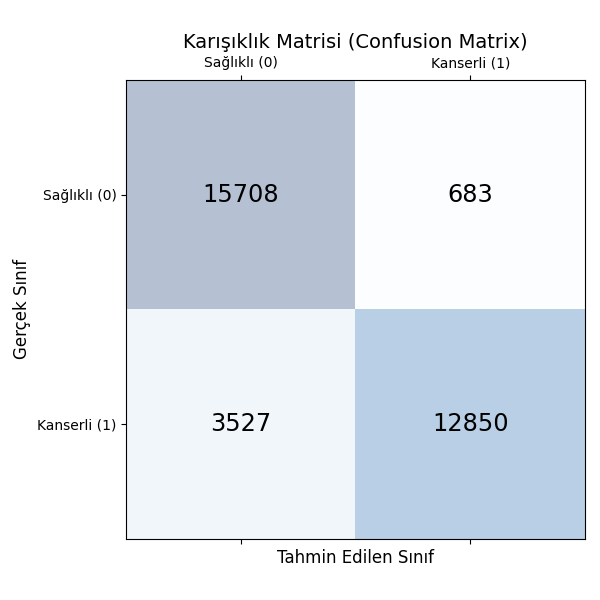
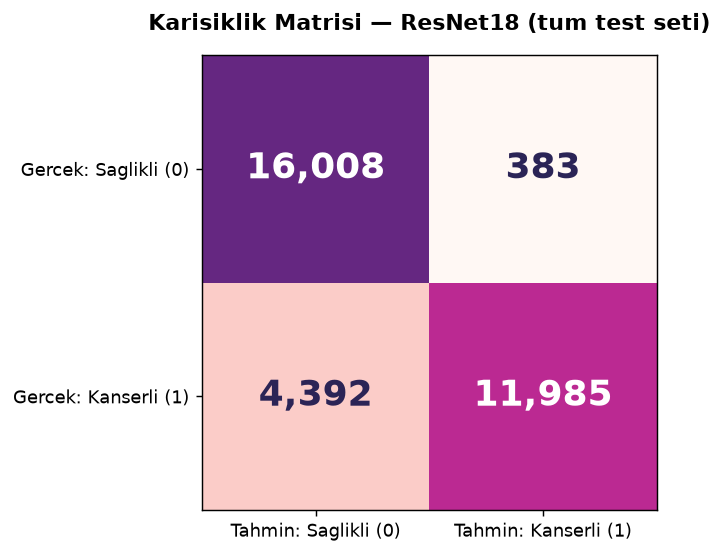
Metrikleri servis edilen modelin gercek degerleriyle guncelle (Acc 85.43, R 0.73); confusion gorseli yenilendi; kurdele-DNA caprazlanmasi + hero yukari

diff --git a/frontend/src/i18n.jsx b/frontend/src/i18n.jsx
@@ -73,7 +73,7 @@ const DICT = {
       pCalib:
         "Nöral ağların ham softmax çıktısı genelde aşırı özgüvenlidir; model yanılırken bile %99 diyebilir. Bunu düzeltmek için temperature scaling (Guo et al., 2017) uyguladık: validation setinde en iyi sıcaklık T = 1.43 bulundu ve logit'ler bu değere bölünerek güven yüzdesi gerçekçi hale getirildi. Kalibrasyon hatası (ECE) 0.0445 → 0.0138'e düştü. Bu işlem tahminleri ve doğruluğu değiştirmez; yalnızca gösterilen yüzdeyi güvenilir kılar.",
       warn:
-        "⚠ Kısıt: Recall ~0.78 olduğundan model, gerçek kanserli vakaların yaklaşık %22'sini kaçırabilir. Bu nedenle araç klinik tanı için uygun değildir ve yalnızca araştırma / eğitim amaçlıdır.",
+        "⚠ Kısıt: Recall ~0.73 olduğundan model, gerçek kanserli vakaların yaklaşık %27'sini kaçırabilir. Bu nedenle araç klinik tanı için uygun değildir ve yalnızca araştırma / eğitim amaçlıdır.",
       credit: "Geliştiren",
     },
     landing: {
@@ -179,7 +179,7 @@ const DICT = {
       pCalib:
         "Raw softmax outputs of neural nets are usually overconfident; the model can say 99% even when wrong. To fix this we applied temperature scaling (Guo et al., 2017): the best temperature T = 1.43 was found on the validation set and logits are divided by it to make the confidence realistic. Calibration error (ECE) dropped 0.0445 → 0.0138. This does not change predictions or accuracy; it only makes the displayed percentage trustworthy.",
       warn:
-        "⚠ Limitation: With recall ~0.78, the model may miss about 22% of true cancer cases. Therefore the tool is not suitable for clinical diagnosis and is for research / education only.",
+        "⚠ Limitation: With recall ~0.73, the model may miss about 27% of true cancer cases. Therefore the tool is not suitable for clinical diagnosis and is for research / education only.",
       credit: "Created by",
     },
     landing: {

diff --git a/frontend/src/styles.css b/frontend/src/styles.css
@@ -129,7 +129,7 @@ body {
   grid-template-columns: 1.45fr 0.55fr;
   align-items: center;
   gap: 32px;
-  padding: 20px 0 32px;
+  padding: 6px 0 24px;
 }
 .hero-text { display: flex; flex-direction: column; gap: 18px; }
 .hero-badge {
@@ -596,7 +596,7 @@ body {
 
 /* ---------- Kurdele şeklinde DNA (Analiz hero) ---------- */
 .rdna {
-  position: relative; width: 100%; max-width: 400px; aspect-ratio: 260 / 300; margin: 0 auto;
+  position: relative; width: 100%; max-width: 330px; aspect-ratio: 260 / 300; margin: 0 auto;
   transform-style: preserve-3d;
   animation: rdnaFloat 9s ease-in-out infinite;
   filter: drop-shadow(0 20px 45px rgba(255, 92, 138, 0.35));

diff --git a/frontend/src/pages/Hakkinda.jsx b/frontend/src/pages/Hakkinda.jsx
@@ -23,10 +23,10 @@ export default function Hakkinda() {
         <h2>{t.about.h2perf}</h2>
         <table className="metrics">
           <tbody>
-            <tr><td>{t.perf.accuracy}</td><td>%87.15</td></tr>
-            <tr><td>Precision</td><td>0.9495</td></tr>
-            <tr><td>Recall</td><td>0.7846</td></tr>
-            <tr><td>F1-Score</td><td>0.8592</td></tr>
+            <tr><td>{t.perf.accuracy}</td><td>%85.43</td></tr>
+            <tr><td>Precision</td><td>0.9690</td></tr>
+            <tr><td>Recall</td><td>0.7318</td></tr>
+            <tr><td>F1-Score</td><td>0.8339</td></tr>
           </tbody>
         </table>
 

diff --git a/frontend/src/components/RibbonDna.jsx b/frontend/src/components/RibbonDna.jsx
@@ -6,7 +6,9 @@ import { useEffect, useRef, useState } from "react";
  * yola dik yerleşen ve Y ekseninde dönen bir DNA baz çifti koyar. Ardışık
  * bazlar faz kaymalı → kurdeleyi izleyen, dönen çift sarmal.
  */
-const PATH = "M100 268 C 132 182 88 120 130 88 C 172 120 128 182 160 268";
+// Kendisiyle çaprazlanan (X yapan) farkındalık kurdelesi yolu:
+// sol kuyruk -> sağ taraftan yukarı -> tepe döngü -> sol taraftan aşağı -> sağ kuyruk
+const PATH = "M104 292 C 178 205 170 112 130 96 C 90 112 82 205 156 292";
 const N = 30;
 
 export default function RibbonDna() {
